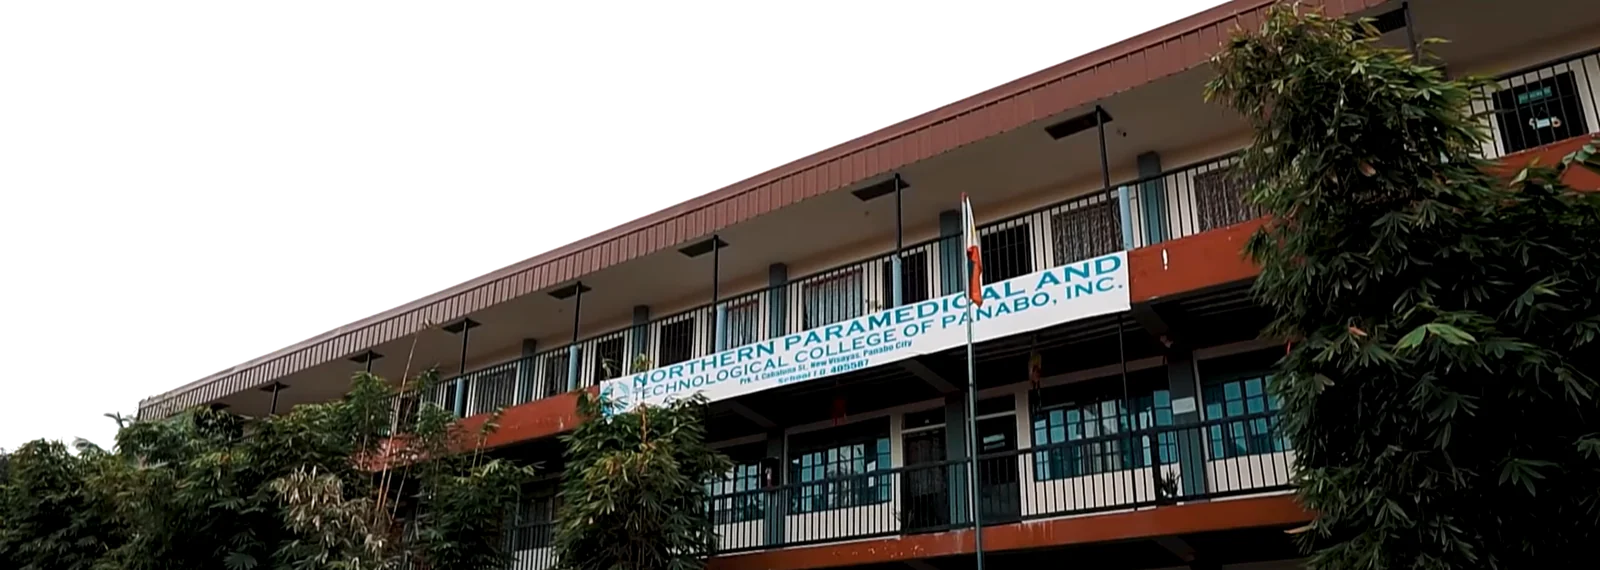
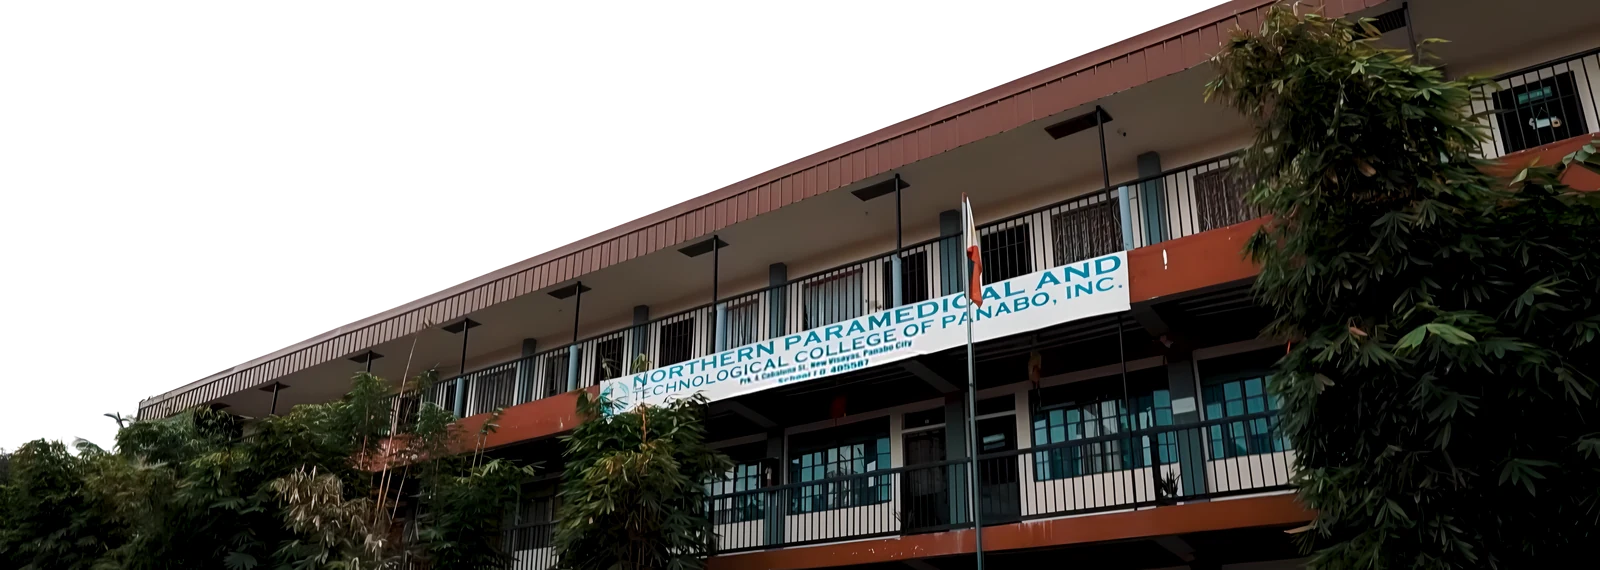
Sharper hero photo, text link, higher curve, Vercel Analytics
- hero photo rebuilt at 3840 wide, with the banner's small text kept from the real frame
- "See how forms connect" is a text link
- the school and curve sit higher, so the curve shows in the first screen
- Vercel Web Analytics on Vercel only, without query strings

diff --git a/templates/shared/landing.html b/templates/shared/landing.html
@@ -9,12 +9,13 @@
     <meta property="og:description" content="Enter it once. Every school form follows. Built with Northern Paramedical &amp; Technological College of Panabo, Inc.">
     <meta property="og:image" content="{{ request.scheme }}://{{ request.get_host }}{% static 'shared/logo/arms-mark-512.png' %}">
     {% include 'shared/_favicon.html' %}
+    {% include 'shared/_analytics.html' %}
     <link rel="preconnect" href="https://fonts.googleapis.com">
     <link rel="preconnect" href="https://fonts.gstatic.com" crossorigin>
     <link rel="stylesheet" href="https://fonts.googleapis.com/css2?family=Inter:wght@400;500;600;700;800&display=swap">
     <link rel="stylesheet" href="https://cdn-uicons.flaticon.com/uicons-regular-rounded/css/uicons-regular-rounded.css">
     <link rel="stylesheet" href="{% static 'landing/css/landing.css' %}">
-    <link rel="preload" as="image" type="image/webp" imagesrcset="{% static 'landing/images/web/school-900.webp' %} 900w, {% static 'landing/images/web/school-1600.webp' %} 1600w, {% static 'landing/images/web/school-2932.webp' %} 2932w" imagesizes="max(110vw, 1040px)">
+    <link rel="preload" as="image" type="image/webp" imagesrcset="{% static 'landing/images/web/school-900.webp' %} 900w, {% static 'landing/images/web/school-1600.webp' %} 1600w, {% static 'landing/images/web/school-2400.webp' %} 2400w, {% static 'landing/images/web/school-3840.webp' %} 3840w" imagesizes="max(104vw, 1040px)">
     <script>
         // Scroll-in effects only run with JavaScript; if the page script never starts, show everything.
         document.documentElement.classList.add('js');
@@ -59,7 +60,7 @@
                 <p class="lead">ARMS turns one SF1 and each teacher's class record into checked grades, finished DepEd forms and clear decisions for the school head.</p>
                 <div class="hero-cta">
                     <a class="btn btn-primary btn-lg" href="{% url 'signin' %}">{% if user.is_authenticated %}Go to your dashboard{% else %}Sign in to ARMS{% endif %}<i class="fi fi-rr-arrow-right" aria-hidden="true"></i></a>
-                    <a class="btn btn-ghost btn-lg" href="#forms">See how forms connect</a>
+                    <a class="hero-link" href="#forms">See how forms connect<i class="fi fi-rr-arrow-small-right" aria-hidden="true"></i></a>
                 </div>
             </div>
             <div class="hero-chain" aria-hidden="true">
@@ -69,9 +70,9 @@
             </div>
         </div>
         <div class="hero-school">
-            <img src="{% static 'landing/images/web/school-1600.webp' %}" sizes="max(110vw, 1040px)"
-                 srcset="{% static 'landing/images/web/school-900.webp' %} 900w, {% static 'landing/images/web/school-1600.webp' %} 1600w, {% static 'landing/images/web/school-2932.webp' %} 2932w"
-                 width="2932" height="1044" fetchpriority="high"
+            <img src="{% static 'landing/images/web/school-1600.webp' %}" sizes="max(104vw, 1040px)"
+                 srcset="{% static 'landing/images/web/school-900.webp' %} 900w, {% static 'landing/images/web/school-1600.webp' %} 1600w, {% static 'landing/images/web/school-2400.webp' %} 2400w, {% static 'landing/images/web/school-3840.webp' %} 3840w"
+                 width="3840" height="1367" fetchpriority="high"
                  alt="The two-storey building of Northern Paramedical and Technological College of Panabo, its name on a banner, with bamboo trees around it">
         </div>
         <svg class="hero-curve" viewBox="0 0 1440 200" preserveAspectRatio="none" aria-hidden="true" focusable="false">

diff --git a/static/landing/css/landing.css b/static/landing/css/landing.css
@@ -104,10 +104,10 @@ i.fi { display: inline-flex; line-height: 1; }
 /* ---------- Hero ---------- */
 /* The school stands on the page's own sky: the photo's sky was cut out, so the building and trees meet the brand's light. */
 .hero {
-    --school-w: max(110vw, 1040px);
+    --school-w: max(104vw, 1040px);
     position: relative; isolation: isolate; overflow: clip;
     min-height: max(100svh, 720px);
-    padding: calc(var(--header-h) + clamp(28px, 5vh, 64px)) 0 calc(var(--school-w) * 0.235);
+    padding: calc(var(--header-h) + clamp(28px, 5vh, 64px)) 0 calc(var(--school-w) * 0.175);
 }
 .hero-sky {
     position: absolute; inset: 0; z-index: -2; pointer-events: none;
@@ -135,14 +135,22 @@ i.fi { display: inline-flex; line-height: 1; }
 .partner-pill:hover { border-color: #b8c1e0; box-shadow: var(--shadow-md); }
 .hero h1 {
     margin: 1.35rem 0 1.15rem; font-weight: 800;
-    font-size: clamp(2.7rem, 1.4rem + 4.4vw, 5.1rem); line-height: 1.02; letter-spacing: -0.048em;
+    font-size: clamp(2.6rem, 1.2rem + 3.6vw, 4.5rem); line-height: 1.02; letter-spacing: -0.048em;
 }
 .grad-text {
     background: linear-gradient(120deg, #123499 0%, #5a67d8 48%, #764ba2 100%); -webkit-background-clip: text; background-clip: text; color: transparent;
     -webkit-box-decoration-break: clone; box-decoration-break: clone; padding-bottom: 0.08em;
 }
 .lead { max-width: 33em; font-size: clamp(1.05rem, 0.98rem + 0.32vw, 1.22rem); line-height: 1.6; color: var(--text); }
-.hero-cta { display: flex; flex-wrap: wrap; gap: 0.75rem; margin-top: 1.8rem; }
+.hero-cta { display: flex; flex-wrap: wrap; align-items: center; gap: 0.75rem 1.5rem; margin-top: 1.7rem; }
+.hero-link {
+    display: inline-flex; align-items: center; gap: 0.3rem; padding: 0.3rem 0;
+    border-bottom: 2px solid rgba(18, 52, 153, 0.3);
+    color: var(--brand); font-size: 1rem; font-weight: 600; text-decoration: none; transition: color 0.2s, border-color 0.2s;
+}
+.hero-link i { transition: transform 0.2s var(--ease); }
+.hero-link:hover { color: var(--brand-hover); border-color: currentColor; }
+.hero-link:hover i { transform: translateX(3px); }
 
 /* three forms in a row: what one upload becomes */
 .hero-chain {
@@ -158,7 +166,7 @@ i.fi { display: inline-flex; line-height: 1; }
 .chain-row b { display: block; color: var(--ink); font-size: 0.86rem; font-weight: 650; line-height: 1.3; }
 .chain-row small { display: block; color: var(--muted); font-size: 0.74rem; line-height: 1.35; }
 
-.hero-school { position: absolute; left: calc(50% - var(--school-w) / 2); bottom: 0; z-index: -1; width: var(--school-w); will-change: transform; }
+.hero-school { position: absolute; left: calc(50% - var(--school-w) / 2); bottom: calc(var(--school-w) * -0.03); z-index: -1; width: var(--school-w); will-change: transform; }
 /* the photo's top edge cuts the roof and the big tree, so both melt into the sky */
 .hero-school img {
     width: 100%;
@@ -483,7 +491,8 @@ i.fi { display: inline-flex; line-height: 1; }
     .footer-in { grid-template-columns: minmax(0, 1fr); }
 }
 @media (max-width: 559px) {
-    .hero { --school-w: 900px; min-height: 0; padding-bottom: 262px; }
+    .hero { --school-w: 900px; min-height: 0; padding-bottom: 244px; }
+    .hero-cta { justify-content: center; }
     .hero-school { left: calc(50% - 505px); }
     .contact-grid { grid-template-columns: minmax(0, 1fr); }
     .brand-text small { display: none; }

diff --git a/templates/shared/_analytics.html b/templates/shared/_analytics.html
@@ -1,0 +1,11 @@
+{% if on_vercel %}<script>
+        // Vercel Web Analytics. Only the page's path is counted: searches and filters in the address stay out of it.
+        window.va = window.va || function () { (window.vaq = window.vaq || []).push(arguments); };
+        window.va('beforeSend', function (event) {
+            var url = new URL(event.url);
+            url.search = '';
+            event.url = url.toString();
+            return event;
+        });
+    </script>
+    <script defer src="/_vercel/insights/script.js"></script>{% endif %}

diff --git a/templates/accounts/auth_base.html b/templates/accounts/auth_base.html
@@ -6,6 +6,7 @@
     <meta name="robots" content="noindex">
     <title>{% block title %}ARMS{% endblock %}</title>
     {% include 'shared/_favicon.html' %}
+    {% include 'shared/_analytics.html' %}
     <link rel="preconnect" href="https://fonts.googleapis.com">
     <link rel="preconnect" href="https://fonts.gstatic.com" crossorigin>
     <link rel="stylesheet" href="https://fonts.googleapis.com/css2?family=Inter:wght@400;500;600;700;800&display=swap">

diff --git a/templates/shared/portal_base.html b/templates/shared/portal_base.html
@@ -6,6 +6,7 @@
     <meta name="viewport" content="width=device-width, initial-scale=1.0">
     <title>{% block title %}ARMS{% endblock %}</title>
     {% include 'shared/_favicon.html' %}
+    {% include 'shared/_analytics.html' %}
 
     <!-- Flaticon Uicons -->
     <link rel="stylesheet" href="https://cdn-uicons.flaticon.com/uicons-regular-rounded/css/uicons-regular-rounded.css">

diff --git a/accounts/context_processors.py b/accounts/context_processors.py
@@ -3,4 +3,5 @@ from django.conf import settings
 
 def auth_options(request):
     """Sign-in options the templates need to know about."""
-    return {'google_signin_enabled': settings.GOOGLE_SIGNIN_ENABLED, 'remember_me_days': settings.REMEMBER_ME_DAYS}
+    return {'google_signin_enabled': settings.GOOGLE_SIGNIN_ENABLED, 'remember_me_days': settings.REMEMBER_ME_DAYS,
+            'on_vercel': settings.ON_VERCEL}
